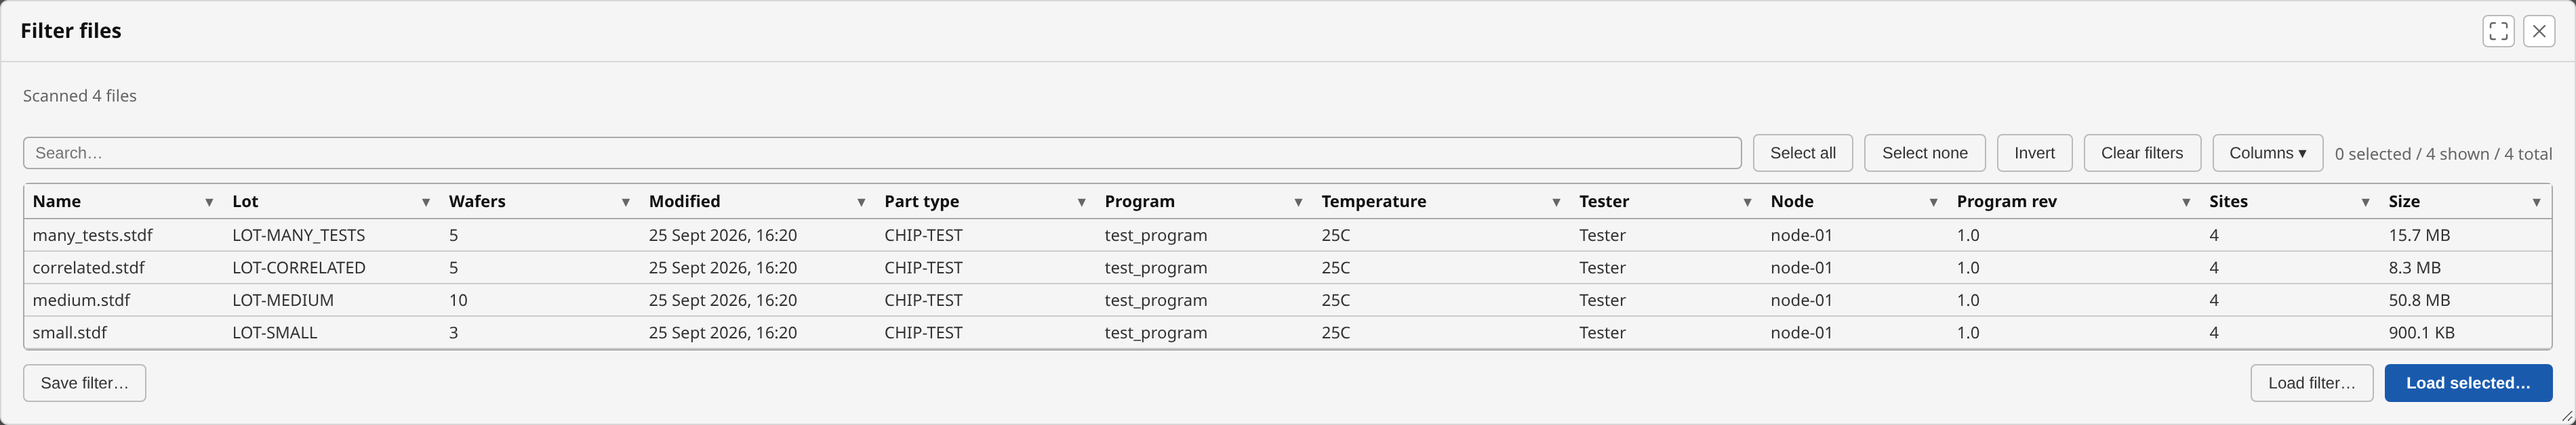
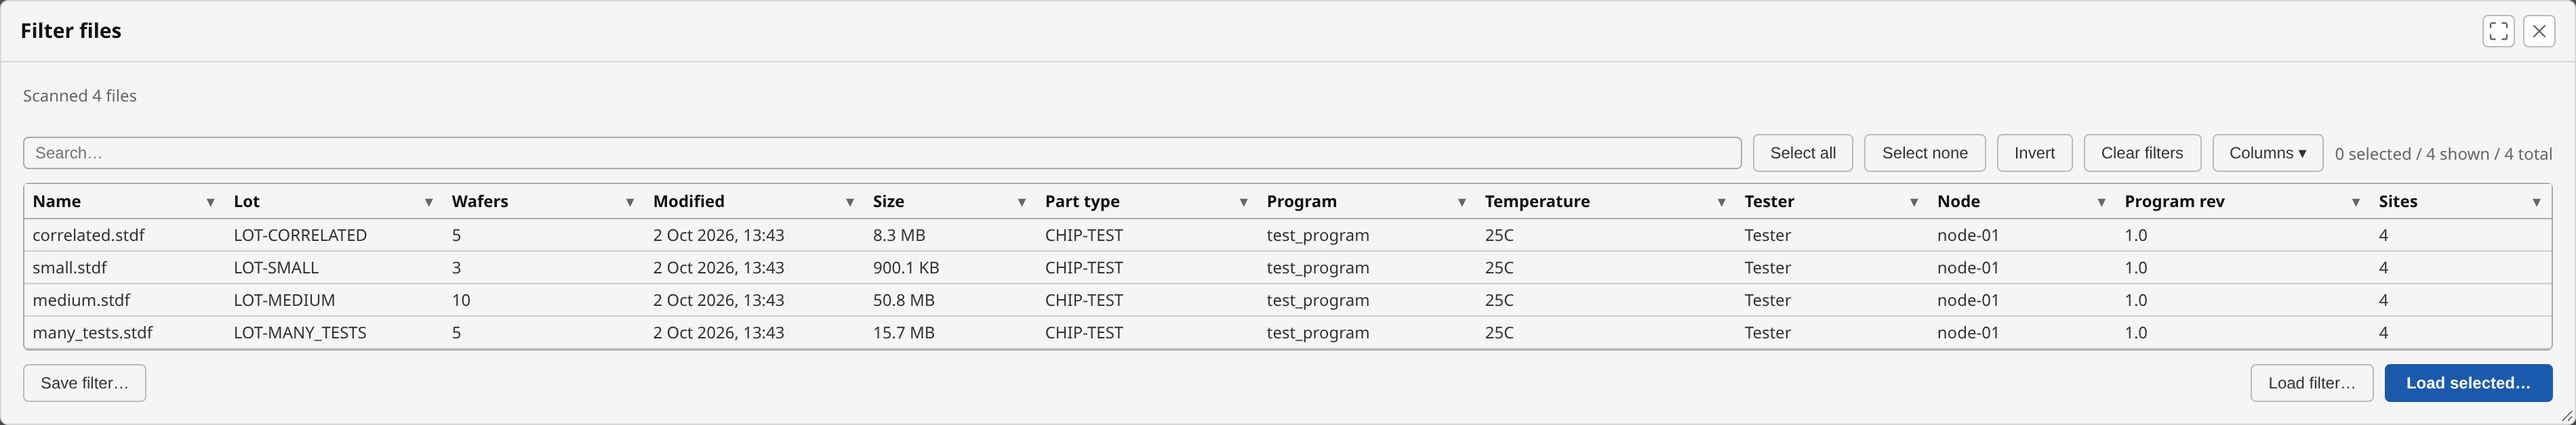
File filter: put Format beside Name and Size beside Modified
Format now follows Name (still shown only when a scan holds more than
one format), and Size follows Modified, both ahead of the lot fields,
which can be wide enough to push them off screen. The file-filter
screenshot in the user guide is recaptured to match.

diff --git a/src/fileFilterUI.ts b/src/fileFilterUI.ts
@@ -587,10 +587,13 @@ export async function openFileFilterDialog(
         const rows = results.map(r => metaToRow(r, dynamicKeys));
 
 
-        // Ordered by the questions asked when triaging a batch: which file,
-        // which lot and how much of it, when it was tested (with Modified
-        // beside Tested, as the two are read together), what was run, then
-        // file-system detail that rarely decides anything. Lot fields use the
+        // Ordered by the questions asked when triaging a batch: which file
+        // (and, in a mixed scan, of what format, beside its name), which lot
+        // and how much of it, when it was tested and when the file was last
+        // written (Modified and Size sit together — a stale or tiny file stands
+        // out when they are read as a pair — and ahead of the lot fields,
+        // which can be wide enough to push them off screen), then what was run.
+        // Lot fields use the
         // facet table's own labels and order (metadata.ts), so the dialog and
         // the gallery's facets name a field the same way.
         const pick = (key: string) => OPTIONAL_COLUMNS.filter(c => c.key === key);
@@ -598,15 +601,15 @@ export async function openFileFilterDialog(
         const LOT = 'lotId';
         const columns: FilterTableColumn[] = [
           { key: '__name', label: 'Name' },
+          // Only worth a column when there's something to distinguish.
+          ...(formats.size > 1 ? [{ key: '__format', label: 'Format' }] : []),
           ...(dynamicKeySet.has(LOT) ? [fieldCol(LOT)] : []),
           ...pick('waferCount'),
           ...pick('__tested'),
           { key: '__modified', label: 'Modified' },
+          { key: '__size', label: 'Size' },
           ...orderFieldKeys(dynamicKeys).filter(k => k !== LOT).map(fieldCol),
           ...pick('siteCount'),
-          { key: '__size', label: 'Size' },
-          // Only worth a column when there's something to distinguish.
-          ...(formats.size > 1 ? [{ key: '__format', label: 'Format' }] : []),
           ...(errorCount > 0 ? [{ key: '__error', label: 'Error' }] : []),
         ];
 

diff --git a/CHANGELOG.md b/CHANGELOG.md
@@ -8,6 +8,8 @@ technical record, including internal changes.
 
 ### Changed
 
+- **The file filter shows Format beside Name, and Size beside Modified.** Both come ahead of the lot fields, which can
+  be wide enough to push them off screen. Format still appears only when a scan holds more than one.
 - **The column mapping dialog shows a value count only when the sample proves one.** The hint beside a metadata column's
   **Subdivide file by this column** option reads "(N values in sample)" when the sampled rows differ, and is
   absent otherwise, since a few rows cannot show that a column is constant across the file.
